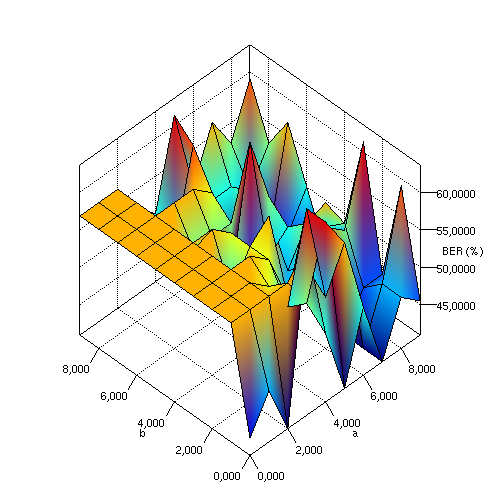
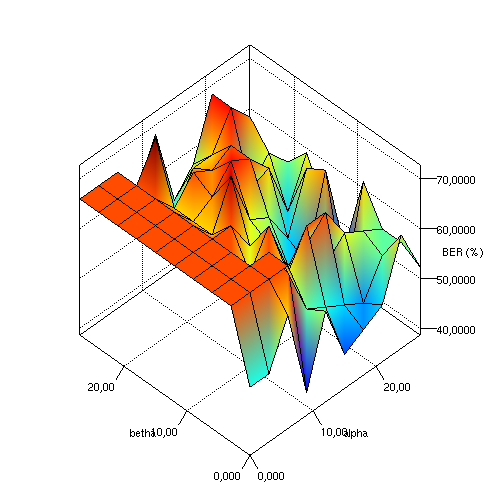
lab13

diff --git a/src/Lab13/Zad1.java b/src/Lab13/Zad1.java
@@ -1,8 +1,5 @@
 package Lab13;
 
-import org.fxyz3d.geometry.Point3D;
-import org.jzy3d.analysis.AnalysisLauncher;
-import org.jzy3d.analysis.AbstractAnalysis;
 import org.jzy3d.chart.Chart;
 import org.jzy3d.chart.factories.AWTChartComponentFactory;
 import org.jzy3d.colors.Color;
@@ -14,8 +11,6 @@ import org.jzy3d.plot3d.builder.concrete.OrthonormalGrid;
 import org.jzy3d.plot3d.primitives.Shape;
 import org.jzy3d.plot3d.rendering.canvas.Quality;
 
-import java.util.ArrayList;
-import java.util.List;
 import java.util.Random;
 
 public class Zad1  {
@@ -94,20 +89,23 @@ public class Zad1  {
                             berMatrix[a][b] = BER;
                         }
                     }
-                    create3DPlot(berMatrix, plotTitle);
+                    create3DPlot(berMatrix, plotTitle, alpha, betha);
                 }
             }
         }
     }
 
-    public static void create3DPlot(double[][] berMatrix, String plotTitle) {
+    public static void create3DPlot(double[][] berMatrix, String plotTitle, double[] alpha, double[] betha) {
         int sizeA = berMatrix.length;
         int sizeB = berMatrix[0].length;
+        // Zakładamy, że alpha i betha są posortowane rosnąco i równomiernie
+        double alphaStep = (alpha[sizeA-1] - alpha[0]) / (sizeA - 1);
+        double bethaStep = (betha[sizeB-1] - betha[0]) / (sizeB - 1);
         Mapper mapper = new Mapper() {
             @Override
             public double f(double a, double b) {
-                int ia = (int) Math.round(a);
-                int ib = (int) Math.round(b);
+                int ia = (int) Math.round((a - alpha[0]) / alphaStep);
+                int ib = (int) Math.round((b - betha[0]) / bethaStep);
                 if (ia >= 0 && ia < sizeA && ib >= 0 && ib < sizeB) {
                     return berMatrix[ia][ib];
                 } else {
@@ -115,8 +113,8 @@ public class Zad1  {
                 }
             }
         };
-        Range rangeA = new Range(0, sizeA - 1);
-        Range rangeB = new Range(0, sizeB - 1);
+        Range rangeA = new Range((float)alpha[0], (float)alpha[sizeA-1]);
+        Range rangeB = new Range((float)betha[0], (float)betha[sizeB-1]);
         int steps = sizeA;
         Shape surface = Builder.buildOrthonormal(new OrthonormalGrid(rangeA, steps, rangeB, steps), mapper);
         surface.setColorMapper(new org.jzy3d.colors.ColorMapper(
@@ -130,10 +128,9 @@ public class Zad1  {
         surface.setWireframeColor(Color.BLACK);
         Chart chart = AWTChartComponentFactory.chart(Quality.Advanced, "offscreen");
         chart.getScene().getGraph().add(surface);
-        chart.getAxeLayout().setXAxeLabel("a");
-        chart.getAxeLayout().setYAxeLabel("b");
+        chart.getAxeLayout().setXAxeLabel("alpha");
+        chart.getAxeLayout().setYAxeLabel("betha");
         chart.getAxeLayout().setZAxeLabel("BER (%)");
-
         chart.getView().setViewPoint(new Coord3d(Math.PI / 4 * -3, Math.PI/4, 0));
         try {
             String filePath = "src/Lab13/plots/" + plotTitle + ".png";
